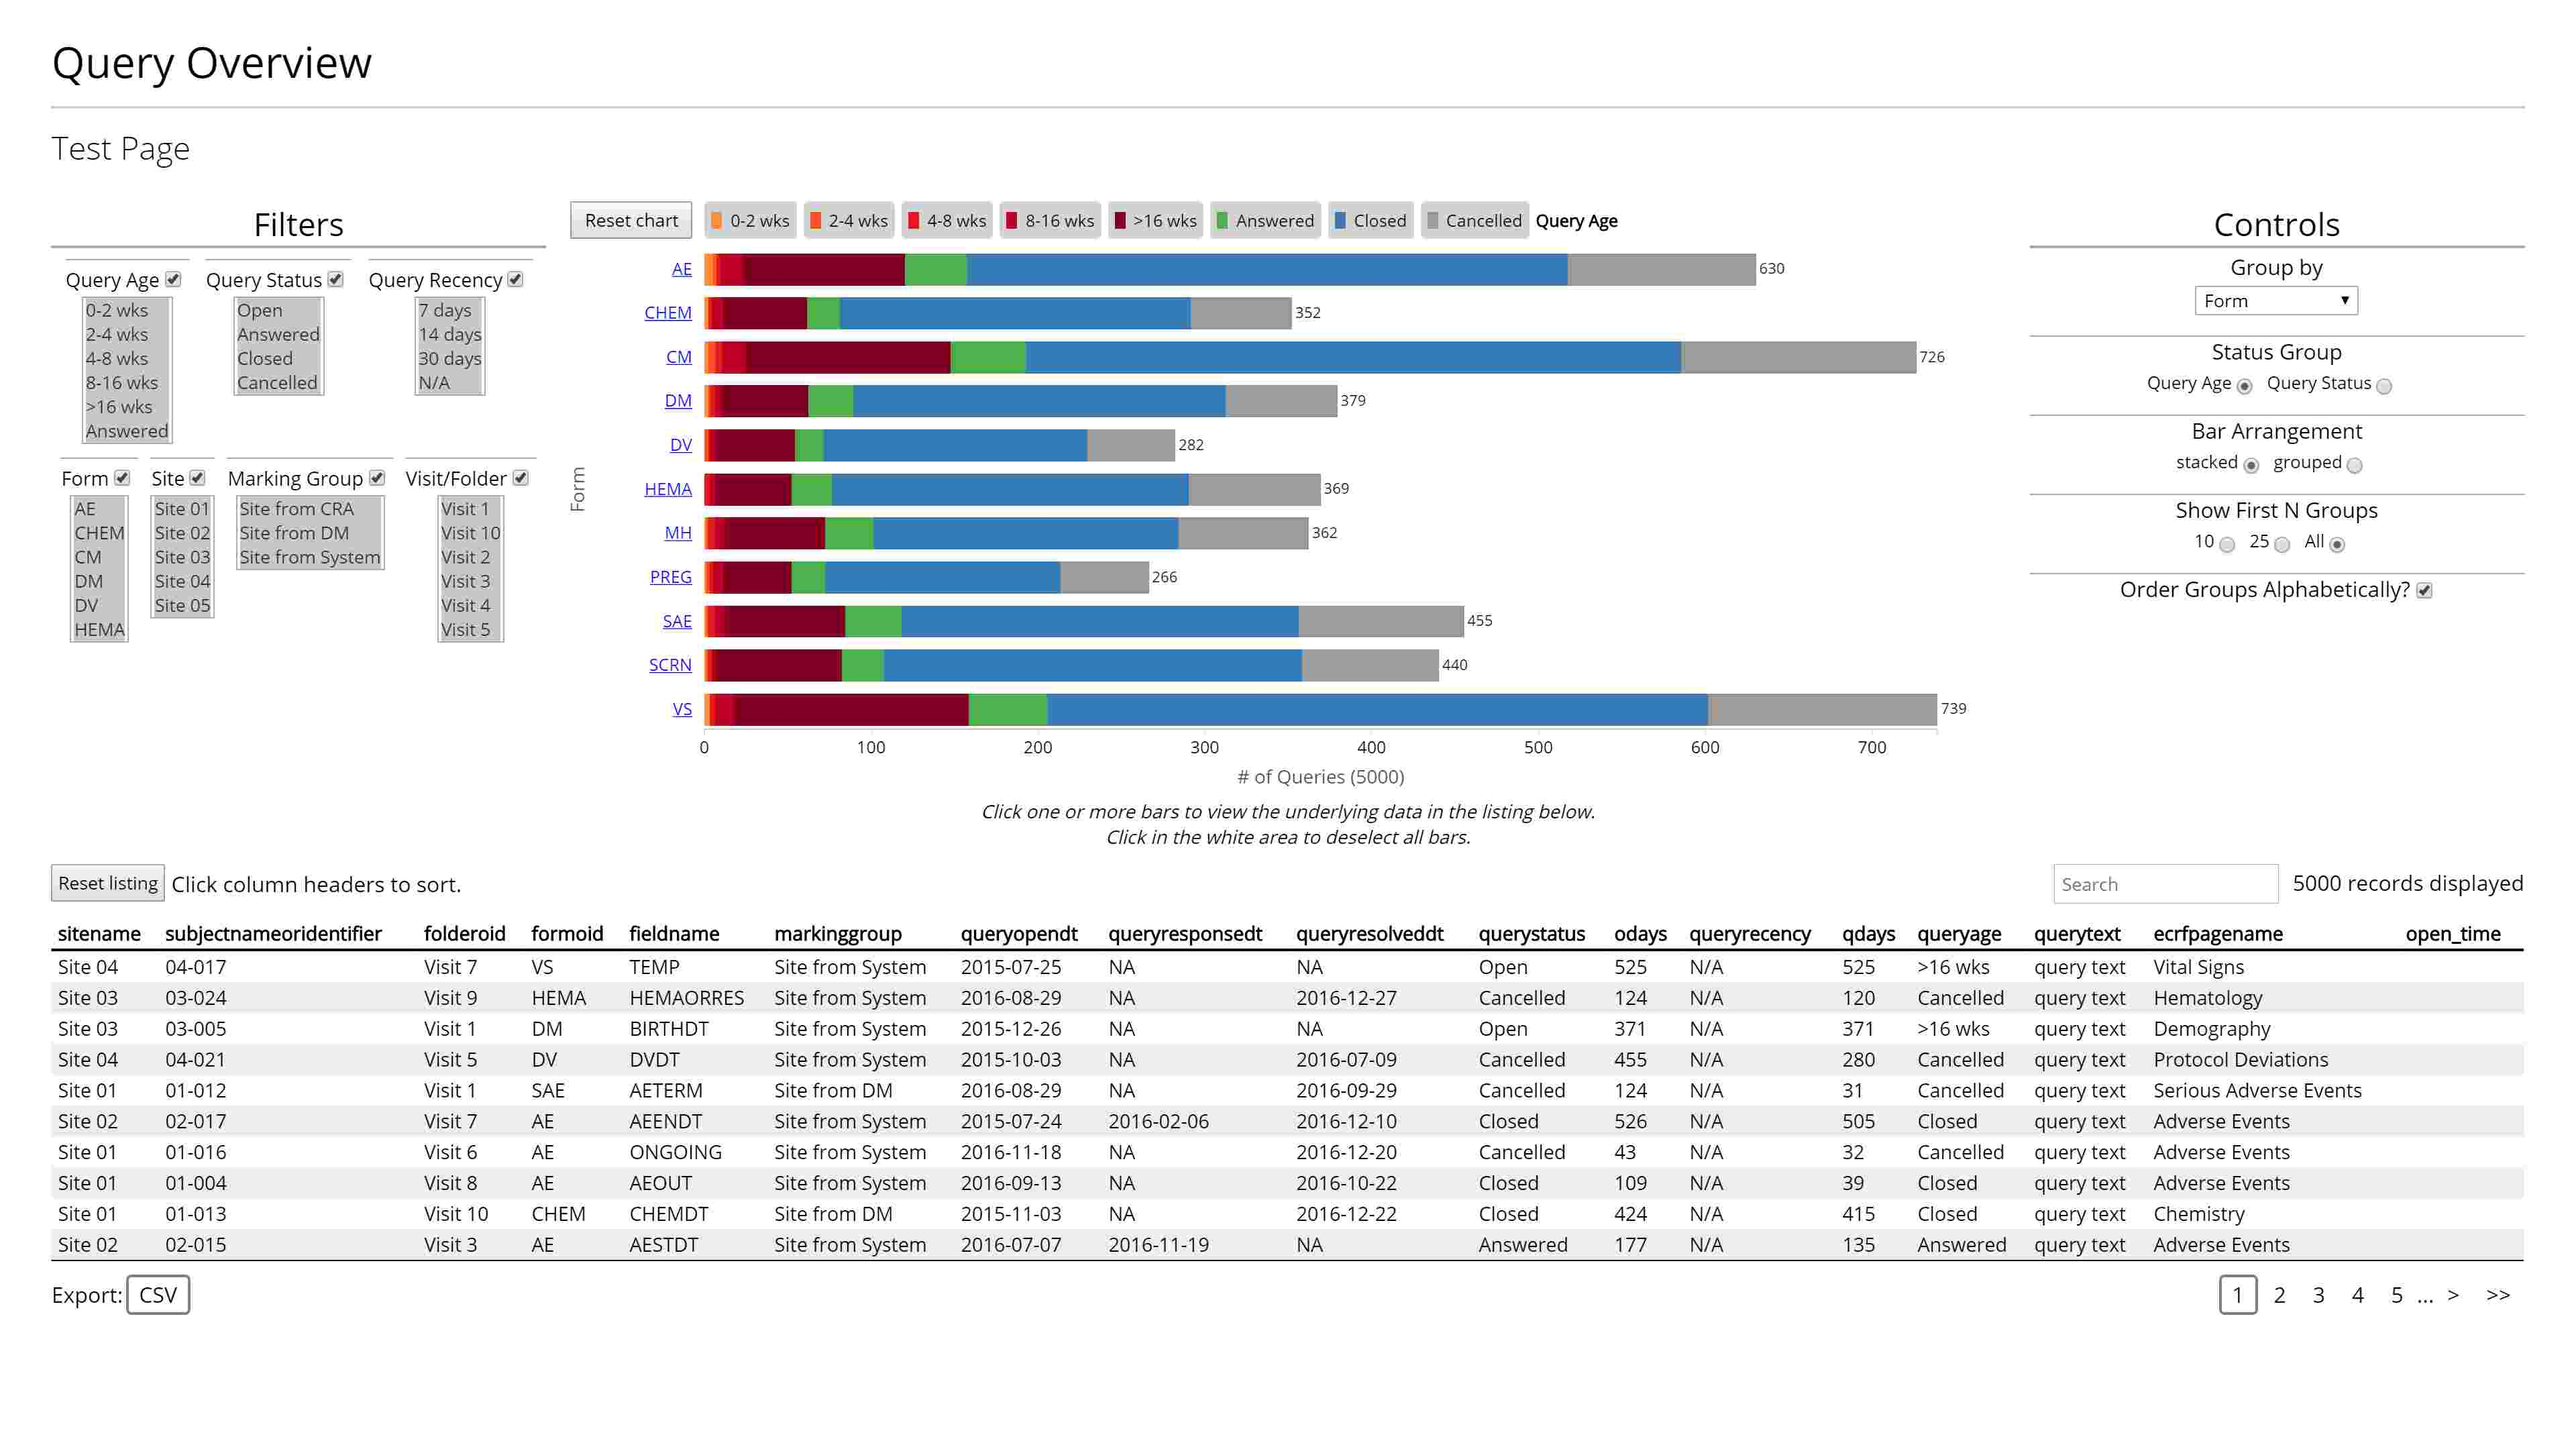
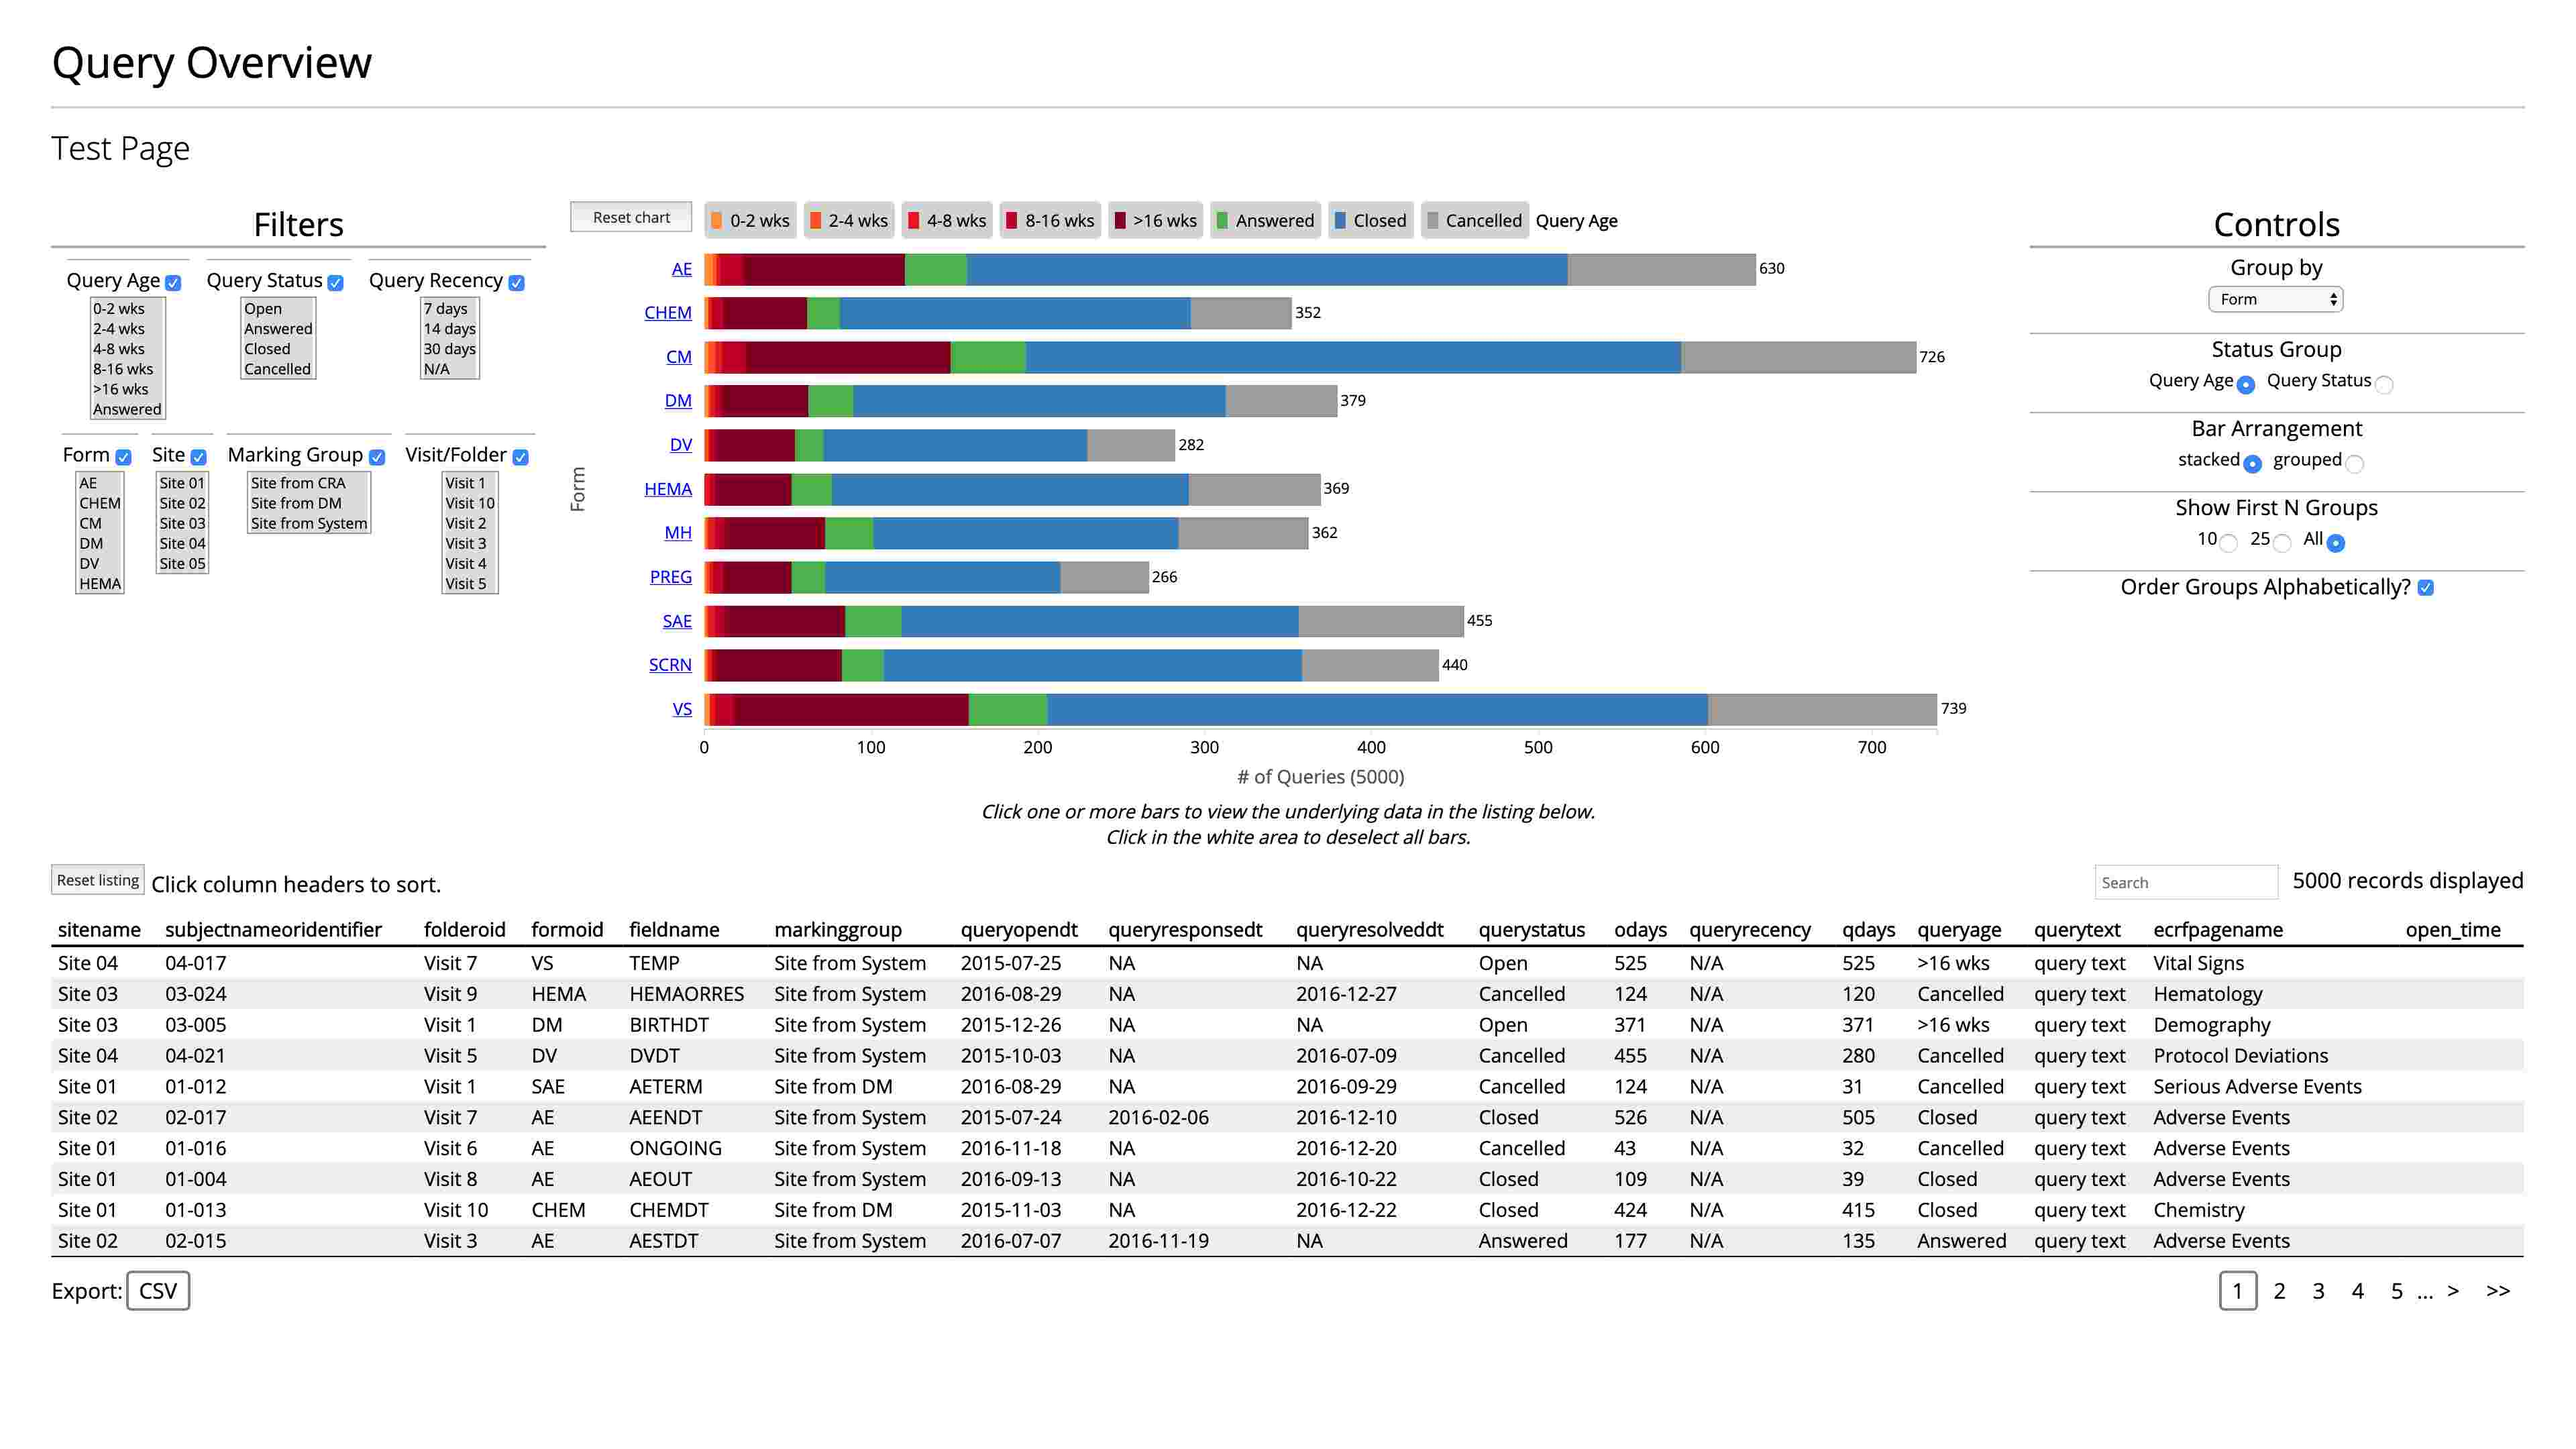
minor formatting tweaks

diff --git a/src/exampleList/makeList.js b/src/exampleList/makeList.js
@@ -24,13 +24,17 @@ export default function makeList(type) {
       .append("a")
       .attr("target", "_blank")
       .attr("href", d => d.html_url)
-      .html("<i class='fab fa-github'></i>")
+      .html("<i class='fa fa-github'></i>")
       .style("padding-right", ".5em");
     items
       .append("span")
       .html(
         d =>
-          "<strong>" + d.name + "</strong> <small>" + d.description + "</small>"
+          "<strong>" +
+          d.name +
+          "</strong> <small>" +
+          (d.description == null ? "" : d.description) +
+          "</small>"
       );
 
     var example_lists = items.append("ul").attr("class", "example-list");
@@ -69,6 +73,8 @@ export default function makeList(type) {
     var spanDivs = exampleContainers
       .append("div")
       .classed("example-description", true)
+      .append("a")
+      .attr("href", d => d.example_url)
       .text(d => d.repo + (d.folder !== "test-page" ? ": " + d.folder : ""));
   }
 }

diff --git a/build/vizLibrary.js b/build/vizLibrary.js
@@ -35,11 +35,15 @@
         .attr("href", function(d) {
           return d.html_url;
         })
-        .html("<i class='fab fa-github'></i>")
+        .html("<i class='fa fa-github'></i>")
         .style("padding-right", ".5em");
       items.append("span").html(function(d) {
         return (
-          "<strong>" + d.name + "</strong> <small>" + d.description + "</small>"
+          "<strong>" +
+          d.name +
+          "</strong> <small>" +
+          (d.description == null ? "" : d.description) +
+          "</small>"
         );
       });
 
@@ -89,6 +93,10 @@
       var spanDivs = exampleContainers
         .append("div")
         .classed("example-description", true)
+        .append("a")
+        .attr("href", function(d) {
+          return d.example_url;
+        })
         .text(function(d) {
           return d.repo + (d.folder !== "test-page" ? ": " + d.folder : "");
         });

diff --git a/scripts/takeScreenshots.js b/scripts/takeScreenshots.js
@@ -10,7 +10,7 @@ const options = {
 };
 
 const overwrite = process.argv[2] == "-o";
-console.log("Overwriting?" + overwrite);
+console.log("Overwriting? " + overwrite);
 
 async function makeExampleList() {
   const examples = await require("../data/examples.json")
@@ -26,10 +26,12 @@ async function makeExampleList() {
     .reduce((acc, val) => acc.concat(val), []) // flattens repo array to one item per example
     .filter(function(example) {
       //overwrite exsiting screenshots if -o flag is set
-      var path = `./img/${example.filename}.png`;
+      var path = `./img/${example.filename}.jpg`;
       if (fs.existsSync(path)) {
+        console.log(path + " exists");
         return overwrite ? true : false;
       } else {
+        console.log(path + " doesn't exist");
         return true;
       }
     });

diff --git a/main.css b/main.css
@@ -101,10 +101,15 @@ li.repo:hover .example-description {
 .controls div{
 	display:inline-block;
 	cursor:pointer;
-	color:blue;
 	padding:0em .2em;
+  color:#999;
+}
+
+.controls div:hover{
+	font-style:underline;
 }
 
 .controls div.selected{
+  color:blue;
 	font-weight: bold ;
 }
